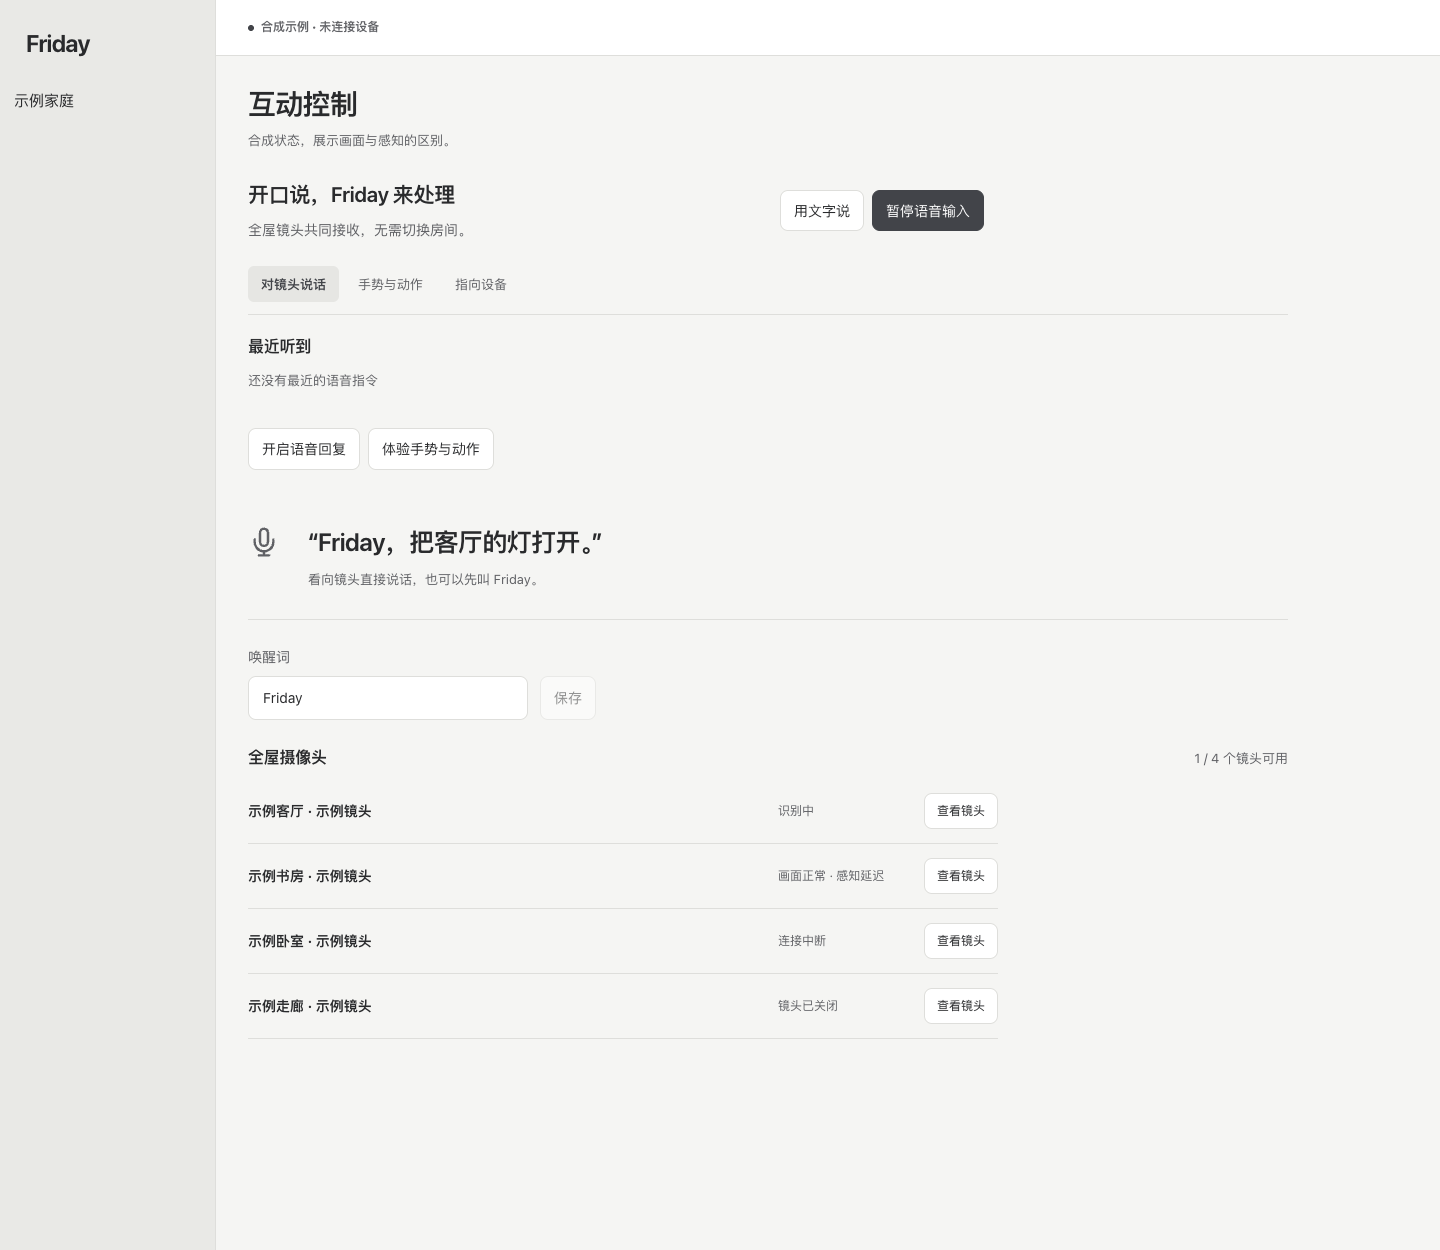
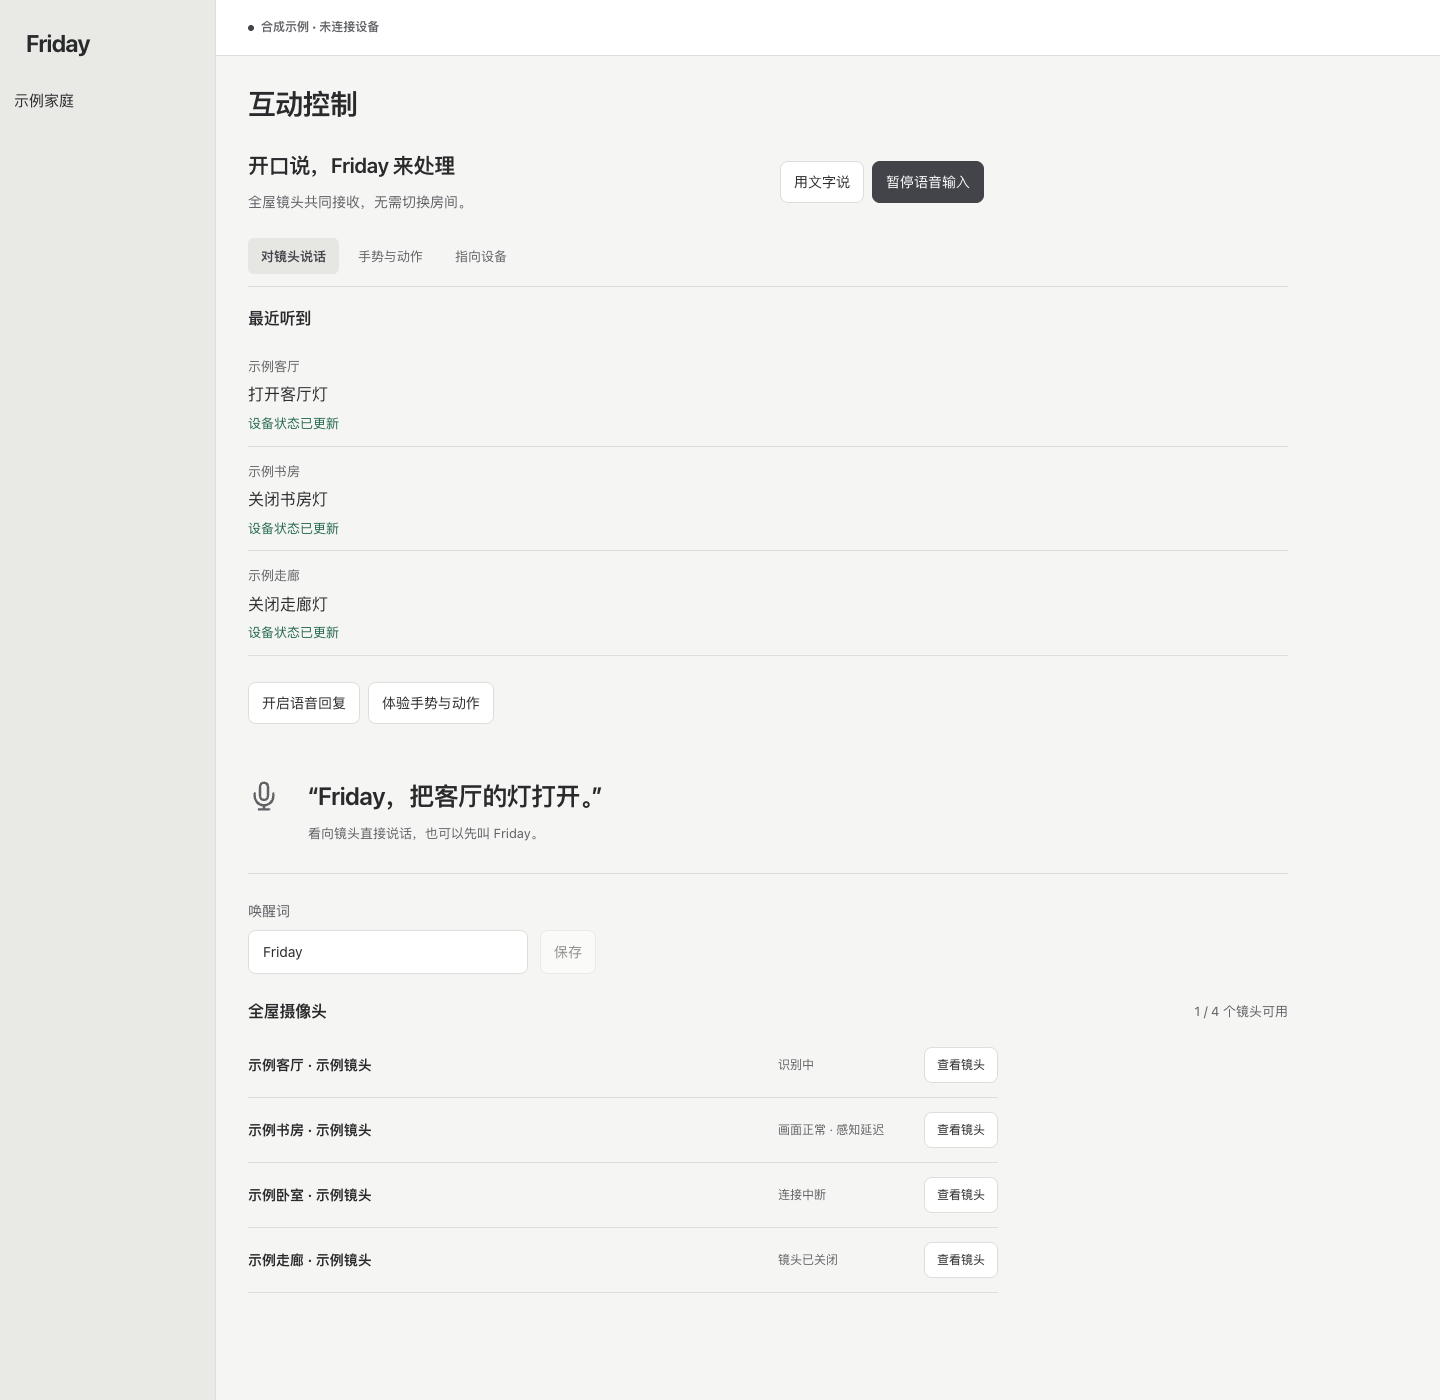
修复：四路镜头保留最新语音反馈

diff --git a/homeplane/static/interactions.js b/homeplane/static/interactions.js
@@ -6,6 +6,11 @@ const btn=(text,run,attrs={})=>{const n=h('button',text,{type:'button',...attrs}
 const api=async(path,body,signal)=>{const r=await fetch(path,{signal,headers:{'Content-Type':'application/json'},...(body===undefined?{}:{method:'POST',body:JSON.stringify(body)})});const data=await r.json();if(!r.ok){const error=Error(typeof data.detail==='string'?data.detail:'unavailable');error.status=r.status;throw error;}return data;};
 const actionName=value=>({on:'开启',off:'关闭',open:'打开',close:'关闭','mode:off':'关闭','mode:cool':'制冷','mode:heat':'制热','mode:auto':'自动','mode:heat_cool':'自动冷暖','mode:dry':'除湿','mode:fan_only':'送风'}[value]||(value?.startsWith('position:')?'开到 '+value.slice(9)+'%':'调整设备'));
 const states={live:'识别中',ready:'识别中',connecting:'正在连接',waiting:'等待画面',stopped:'未开启',unavailable:'连接中断',shutter_closed:'镜头已关闭',stale:'画面已中断'};
+function voiceCommandTimestamp(voice){
+ const command=voice.voice_command;
+ if(!command||command.text!==voice.last_transcript)return 0;
+ return Number.isFinite(command.started_at)&&command.started_at>0?command.started_at:0;
+}
 function voiceCommandPresentation(voice){
  const command=voice.voice_command;
  if(!command||command.text!==voice.last_transcript)return{state:'unknown',text:'这条指令的结果尚未确认',recover:true};
@@ -140,7 +145,10 @@ export function mountInteractions(root,{data,go,toast}){
   }
   const voiceState=slot.querySelector?.('[data-voice-state]');if(voiceState){
    const voices=(report.voice_sessions||[]).filter(v=>v.last_transcript);if(!voices.length&&report.home?.last_transcript)voices.push({...report.home,camera:report.camera});
-   const rows=voices.slice(-3).map(voice=>({voice,room:cameras.find(c=>c.id===voice.camera)?.room||'家中',outcome:voiceCommandPresentation(voice)}));
+   const recent=voices.some(v=>voiceCommandTimestamp(v)>0)
+    ?voices.sort((a,b)=>voiceCommandTimestamp(b)-voiceCommandTimestamp(a)).slice(0,3)
+    :voices.slice(-3);
+   const rows=recent.map(voice=>({voice,room:cameras.find(c=>c.id===voice.camera)?.room||'家中',outcome:voiceCommandPresentation(voice)}));
    const empty=rows.length?'':canToggle()&&!voiceEnabled()?'语音输入已暂停':'还没有最近的语音指令';
    const summary=JSON.stringify([empty,rows.map(({voice,room,outcome})=>[voice.last_transcript,room,outcome])]);
    if(voiceState.voiceSummary!==summary){voiceState.voiceSummary=summary;voiceState.replaceChildren();for(const{voice,room,outcome}of rows){const row=add(h('div',null,{class:'voice-recent-row'}),h('span',room,{class:'caption'}),h('p',voice.last_transcript),h('span',outcome.text,{class:'voice-command-result','data-state':outcome.state}));if(outcome.recover)row.append(add(h('div',null,{class:'voice-command-recovery'}),btn('查看设备',()=>go('Devices')),btn('刷新结果',()=>refresh())));voiceState.append(row);}if(empty)voiceState.append(h('p',empty,{class:'caption'}));}

diff --git a/scripts/audit_publication.py b/scripts/audit_publication.py
@@ -31,8 +31,9 @@ SYNTHETIC_MEDIA = {
     # 固定合成镜头状态截图，输入来自 camera-perception.html，不连接设备。
     'docs/screenshots/camera-interaction-settings.png':
[1 lines of base64/hex data omitted]
+    # 隔离浏览器中的四路模拟反馈及镜头状态，无真实家庭数据。
     'docs/screenshots/camera-perception-status.png':
[2 lines of base64/hex data omitted]
     # 照护控制台的合成姿态与镜头，截图仅来自隔离的本机测试页。
     'docs/screenshots/safety-fall-views.png':
[1 lines of base64/hex data omitted]

diff --git a/docs/deployment.md b/docs/deployment.md
@@ -25,6 +25,7 @@ Web 控制面与合成示例，不下载模型、Miloco SDK 或家庭数据。
 说出指令时，Friday 也可以根据确认的注视接收。要使用已关闭的镜头，请先在米家打开它。
 两台镜头同时收到同一句指令时，有效识别到注视的镜头可用自己的收音复核并接手。
 转写有分歧时，可以对着镜头再说一次。
+「对镜头说话」会从各镜头的最新反馈中显示最近三条，最新指令排在前面。
 
 **喊完 Friday 还能接着说吗？** 可以。唤醒确认后，同一收音来源可接收六秒内开始的一句指令。
 比如说「Friday」，停一下，再说「打开客厅灯」。云台转向时，仍有效的收音可以接收这句话。
@@ -61,7 +62,7 @@ Web 控制面与合成示例，不下载模型、Miloco SDK 或家庭数据。
 
 下图使用固定合成输入，不连接设备；参见[感知状态示例](../fixtures/homeplane/camera-perception.html)。
 
-![互动控制中的画面、感知延迟和镜头关闭状态（合成示例）](screenshots/camera-perception-status.png)
+![互动控制中的最近语音反馈、感知延迟和镜头关闭状态（合成示例）](screenshots/camera-perception-status.png)
 
 ## 2. Home Assistant
 

diff --git a/docs/architecture.md b/docs/architecture.md
@@ -256,6 +256,9 @@ flowchart LR
 收音或转写仍在进行时暂缓新的转向，已确认的唤醒进度保留。语句准入后，明确唤醒或同源
 接续的设备读回可以与转向并行。采集或识别会话实际变更时撤销旧输入，等待新画面和新指令。
 
+互动页按各镜头本次指令的开始时间选择最近三条反馈。回执时间和结果只关联到同一条转写。
+旧格式缺少指令开始时间时仍能展示语音反馈。
+
 ```mermaid
 flowchart LR
   A[各路已授权收音] --> B[按重叠语音段选择来源]
